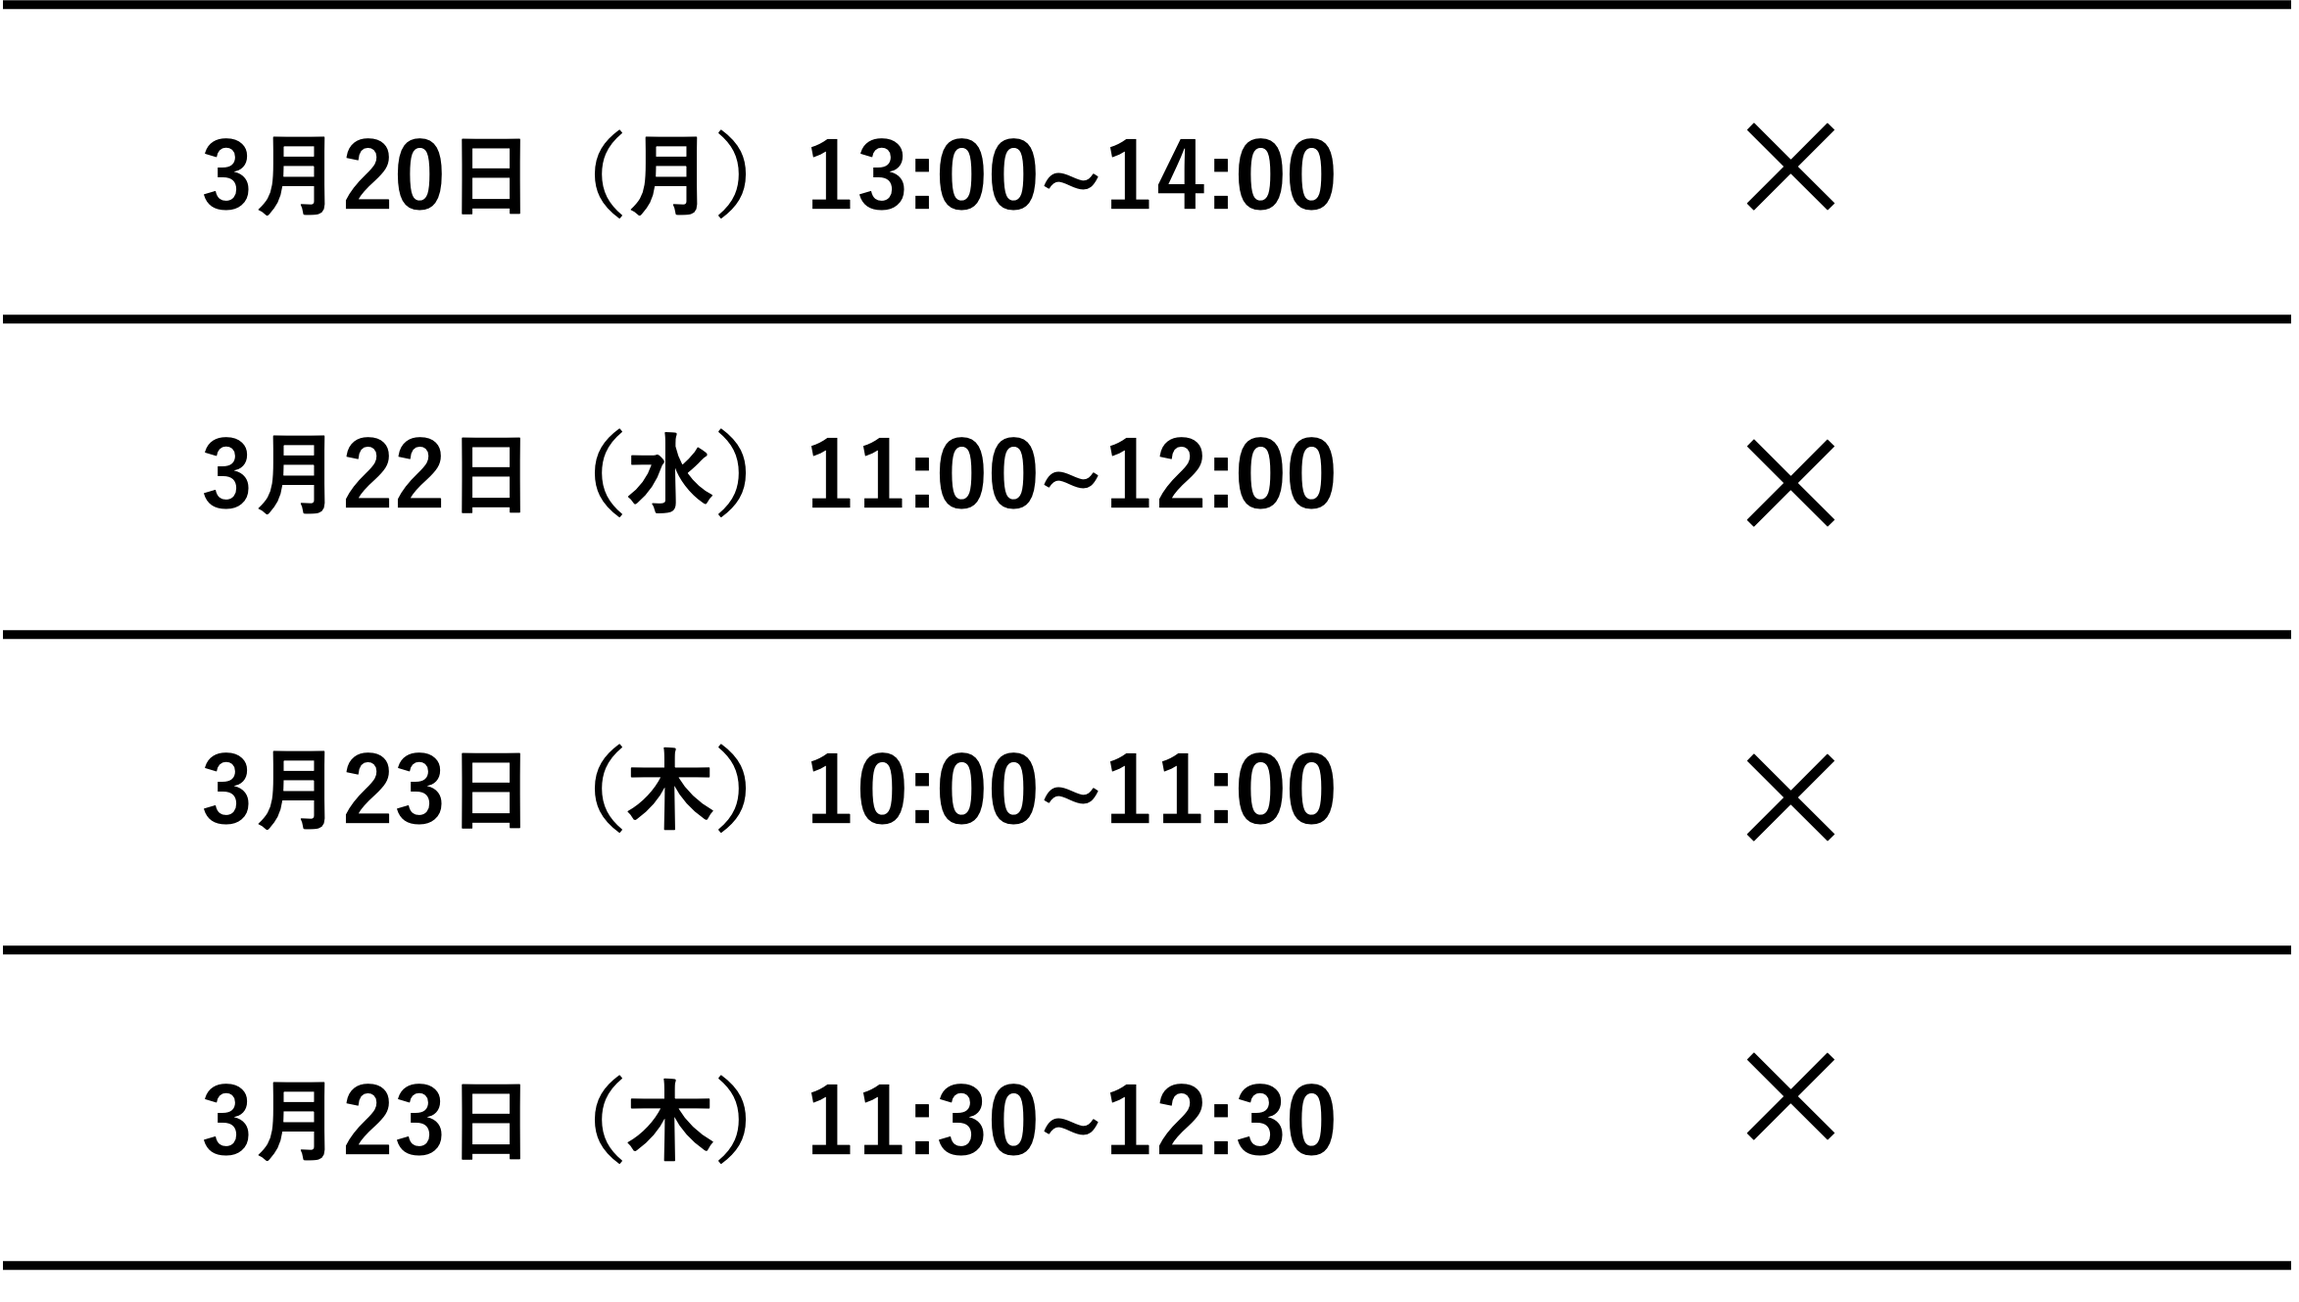
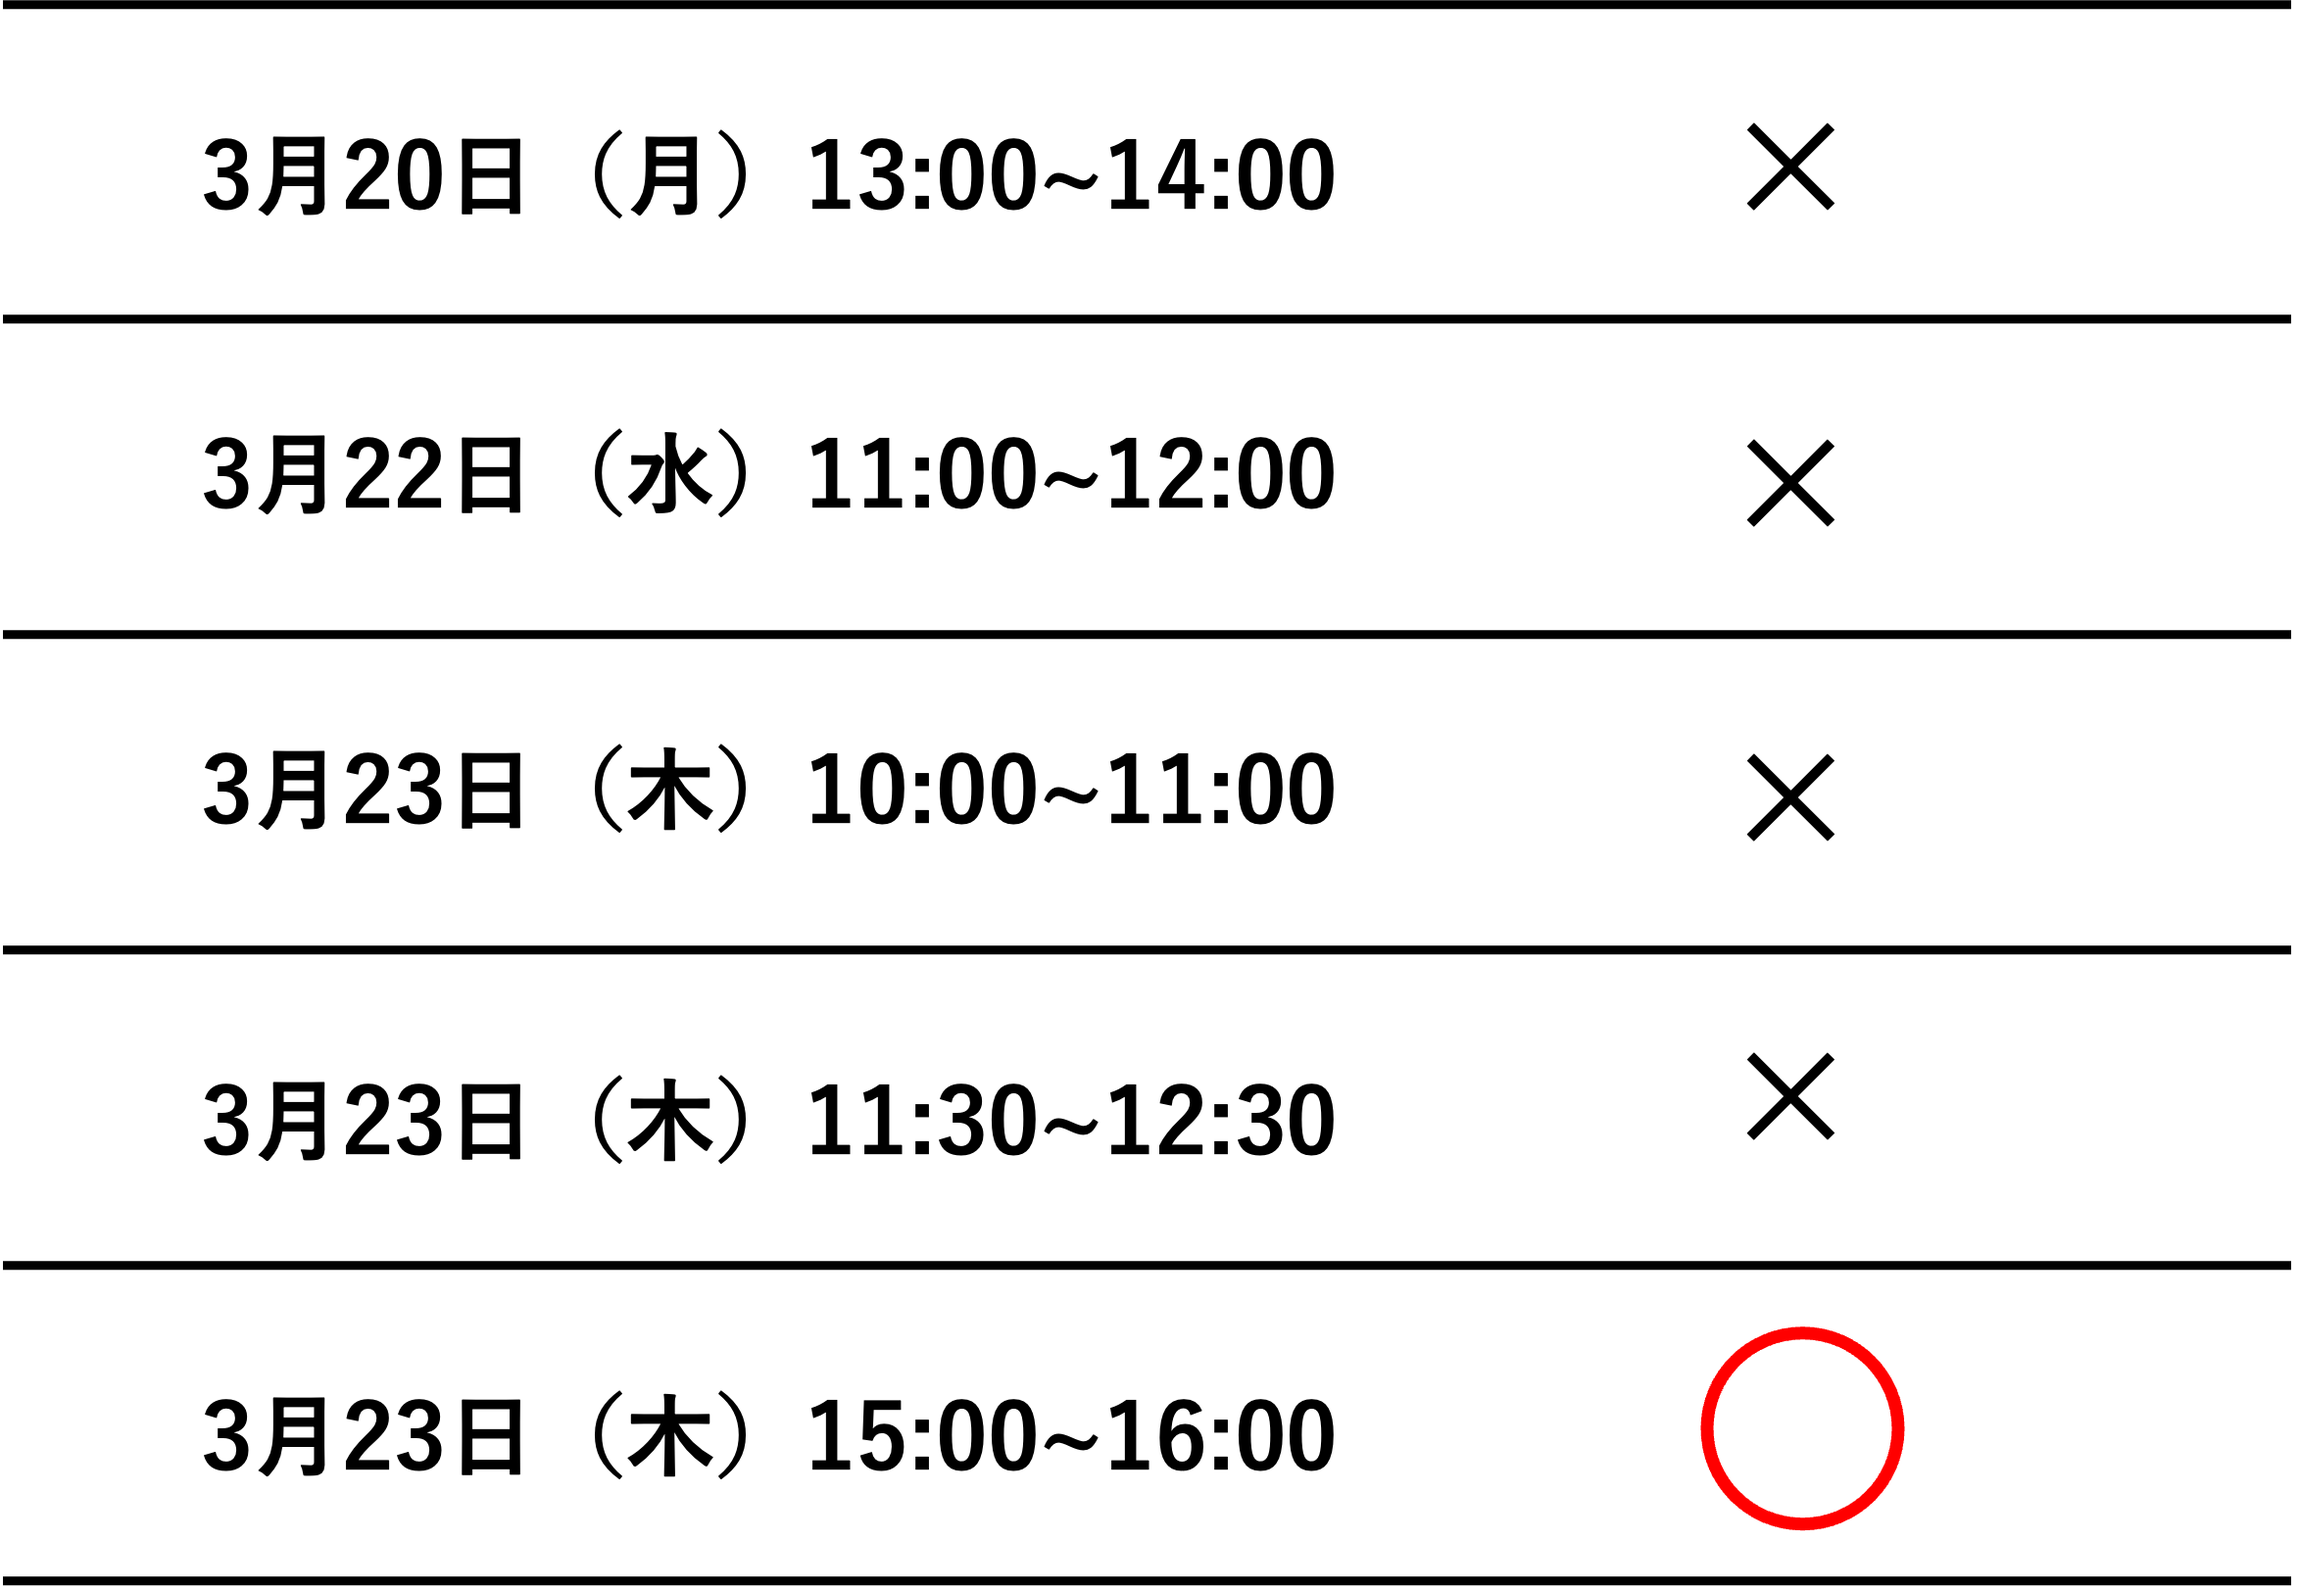
update

diff --git a/src/pages/index.js b/src/pages/index.js
@@ -202,7 +202,7 @@ export default ({ data }) => (
 
           時間：<br/>
           <Img fluid={data.sche.childImageSharp.fluid} alt="" />分
-          <div className="tips" >20日（月），22日（水），23日（木）10時と11時30は上限数に達しましたので，予約を締め切りました．追加開催については現在検討中です．</div>
+          <div className="tips" >20日（月），22日（水），23日（木）10時と11時30分は上限数に達しましたので，予約を締め切りました．</div>
           <br/><br/>
 
           場所：<br/>
